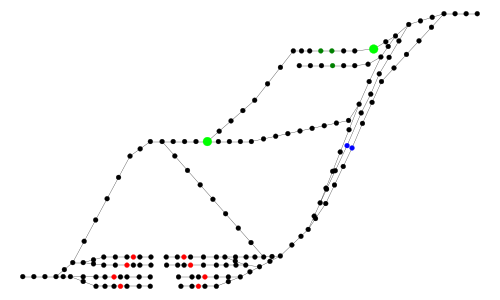
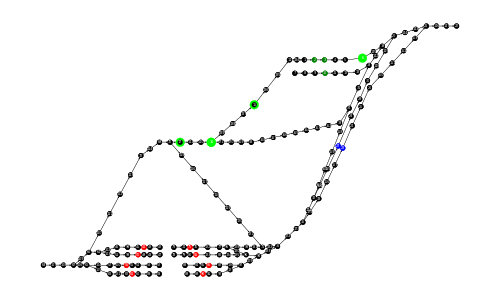
Directed graph generation

diff --git a/ImportNetwork.py b/ImportNetwork.py
@@ -27,6 +27,76 @@ def load_Switches(G):
     for n in G.nodes():
         if(len(list(G.neighbors(n))) > 2): # is this node a switch?
             nSwitches.append(n)
+           
+def bound(low, high, value):
+    return max(low, min(high, value))
+
+def calc_angle(posList, previous, current, nb):
+    # using θ = cos-1 [ (a · b) / (|a| |b|) ] for the angle
+    (px, py) = posList[previous]
+    (cx, cy) = posList[current]
+    (nbx, nby) = posList[nb]
+    
+    (ax, ay) = (cx-px, cy-py)
+    (bx, by) = (cx-nbx, cy-nby)
+    
+    dotproduct = ax * bx + ay * by
+    lenA = calc_EdgeLength(G, current, previous)
+    lenB = calc_EdgeLength(G, current, nb)
+    
+    print(dotproduct, lenA, lenB, lenA*lenB)
+    
+    angle = math.acos(bound(-1,1,dotproduct / (lenA*lenB)))
+    
+    return angle
+
+#probeerselke
+def rec_addEdge(G, DiG, previous, current, forward):
+    posList = nx.get_node_attributes(G,'pos') 
+    nbs = list(G.neighbors(current))
+    for nb in nbs:
+        if DiG.has_edge(current, nb) or DiG.has_edge(nb, current):
+            #edge already present
+            continue
+        
+        angle = calc_angle(posList, previous, current, nb)
+        
+        print(previous, current, nb, angle)
+        
+        if(angle < math.pi/2 or angle > 3*math.pi/2): # sharp corner
+            if forward:
+                DiG.add_edge(nb, current)
+                rec_addEdge(G, DiG, current, nb, not(forward))
+            else:
+                DiG.add_edge(current, nb)
+                rec_addEdge(G, DiG, current, nb, not(forward))
+        else:
+            if forward:
+                DiG.add_edge(current, nb)
+                rec_addEdge(G, DiG, current, nb, forward)
+            else:
+                DiG.add_edge(nb, current)
+                rec_addEdge(G, DiG, current, nb, forward)
+                
+        
+        
+def generate_DiGraph(G):
+    DiG = nx.DiGraph()
+    posList = nx.get_node_attributes(G,'pos') 
+    nodes = list(G.nodes())
+    for n in nodes:
+        DiG.add_node(n, pos=posList[n])
+    
+    #starting edge
+    previous = 68
+    current = 107
+    forward = True
+    DiG.add_edge(previous, current)
+    
+    rec_addEdge(G, DiG, previous, current, forward)
+    
+#    vis.plot_Graph(DiG, 1, [], save = False, node_labels = True)  
+    return DiG
     
 
 def import_network():
@@ -61,13 +131,15 @@ def import_network():
     for edge in fEdges:
         n1 = int(edge[5])
         n2 = int(edge[6])
-        G.add_edge(n1, n2, length = round(calc_EdgeLength(G, n1, n2), 2))
+        l = round(calc_EdgeLength(G, n1, n2), 2)
+        G.add_edge(n1, n2, length = l)
     
     
     G.remove_nodes_from(list(nx.isolates(G))) # REMOVE UNCONNECTED NODES 
     
     #load the global params
     load_Switches(G)
+#    generate_DiGraph(G)
     
     return G
 
@@ -95,7 +167,11 @@ G = import_network()
 #
 #remove_intermediary_nodes(G, exempt_nodes)
 #
-vis.plot_Graph(G, 1, [15, 16, 17], save=False, node_labels = True)
+DiG = generate_DiGraph(G)
+vis.plot_Graph(DiG, 1, [15, 16, 17], save=False, node_labels = True)
+
+
+
 """ NOW, fill with discretized nodes """
 # TODO
 # wacht, is dees nog nodig?

diff --git a/LP_MIP.py b/LP_MIP.py
@@ -12,6 +12,8 @@ from ImportNetwork import import_network
 from Visualise import generate_GIF
 from ExportResults import output_locopos
 
+from PARAMS import nSwitches
+
 #Model definition
 m = gp.Model("TP movements")
 
@@ -46,7 +48,18 @@ m.addConstrs(y[n, l, t-1] + sum(y[k, l, t-1] for k in list(G.neighbors(n))) >= y
                 for l in range(L)
             )
 
-# 
+## NEEDED FOR SHARP CORNERS
+## only 1 timestep on switch 
+## I know this does give some extra constraints not inherent to the problem, but 
+## I dont have any other idea how to model this.
+#m.addConstrs(y[n,l,t-1] + y[n,l,t] <= 1 
+#             for n in nSwitches
+#             for t in range(1, H)
+#             for l in range(L))
+#
+## NEEDED FOR SHARP CORNERS
+
+
 pass # TODO
 
 

diff --git a/PARAMS.py b/PARAMS.py
@@ -12,8 +12,9 @@ nG = nGA + nGB
 nD = [23,27]
 nRy = [2,3,10]
 
-# todo: automatisch genereren
+# generated in import
 nSwitches = []
+AccessibleNodes2Ago = []
 
 
 # cutting the graph
